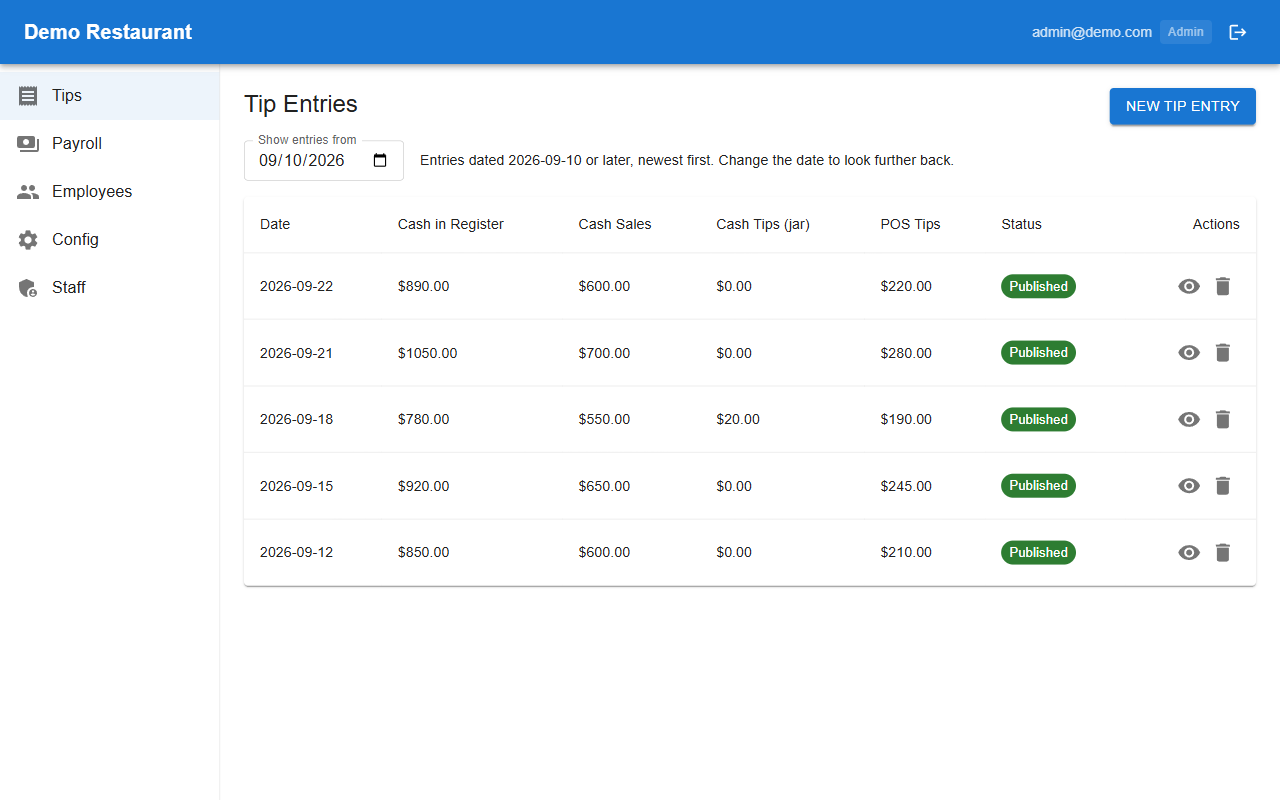
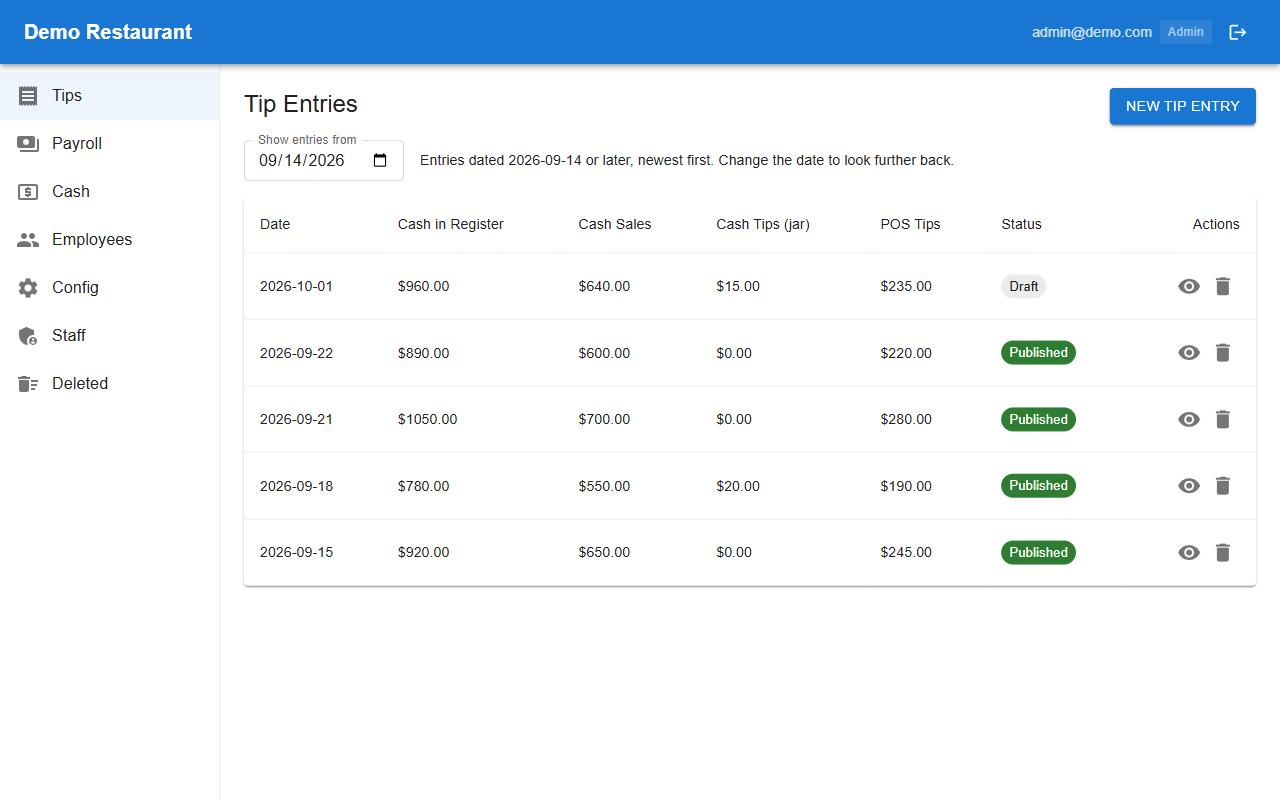
docs: refresh README and landing screenshots; add Cash Reconciliation
Retaken from local demo data (no real emails): current menu with Cash and
Deleted, a draft entry, and the payroll draft-exclusion notice.

diff --git a/frontend/src/pages/LandingPage.tsx b/frontend/src/pages/LandingPage.tsx
@@ -7,6 +7,7 @@ const screenshots = [
   { src: '/landing/tip-entries.png', alt: 'Tip entries list showing published daily entries', caption: 'Track every day’s entries, published or draft' },
   { src: '/landing/payroll-report.png', alt: 'Payroll report totaling tips per employee', caption: 'Payroll-ready totals for any date range' },
   { src: '/landing/employees.png', alt: 'Employee list with per-role hourly rates', caption: 'Per-role rates for staff who wear more than one hat' },
+  { src: '/landing/cash-reconciliation.png', alt: 'Cash reconciliation comparing counted drops with expected cash', caption: 'Count every cash drop and catch shortages fast' },
 ];
 
 const features = [
@@ -36,7 +37,7 @@ export default function LandingPage() {
       <Box sx={{ maxWidth: 1100, mx: 'auto', p: 2, pt: 6 }}>
         <Stack direction="row" spacing={3} useFlexGap sx={{ flexWrap: 'wrap', justifyContent: 'center' }}>
           {screenshots.map((s) => (
-            <Card key={s.src} elevation={2} sx={{ width: 320, overflow: 'hidden' }}>
+            <Card key={s.src} elevation={2} sx={{ width: 480, overflow: 'hidden' }}>
               <CardMedia component="img" image={s.src} alt={s.alt} />
               <Typography variant="body2" color="text.secondary" sx={{ p: 1.5 }}>{s.caption}</Typography>
             </Card>

diff --git a/README.md b/README.md
@@ -15,9 +15,11 @@ Filling in a tip entry and previewing the pooled, prorated distribution live, be
 
 ![Live tip calculation preview](frontend/public/landing/tip-preview.gif)
 
-| Tip Entries | Payroll Report | Employees |
-|---|---|---|
-| ![Tip entries list](frontend/public/landing/tip-entries.png) | ![Payroll report](frontend/public/landing/payroll-report.png) | ![Employees with per-role rates](frontend/public/landing/employees.png) |
+| Tip Entries | Payroll Report |
+|---|---|
+| ![Tip entries list with a draft](frontend/public/landing/tip-entries.png) | ![Payroll report](frontend/public/landing/payroll-report.png) |
+| **Cash Reconciliation** | **Employees** |
+| ![Cash reconciliation](frontend/public/landing/cash-reconciliation.png) | ![Employees with per-role rates](frontend/public/landing/employees.png) |
 
 ## Features
 
